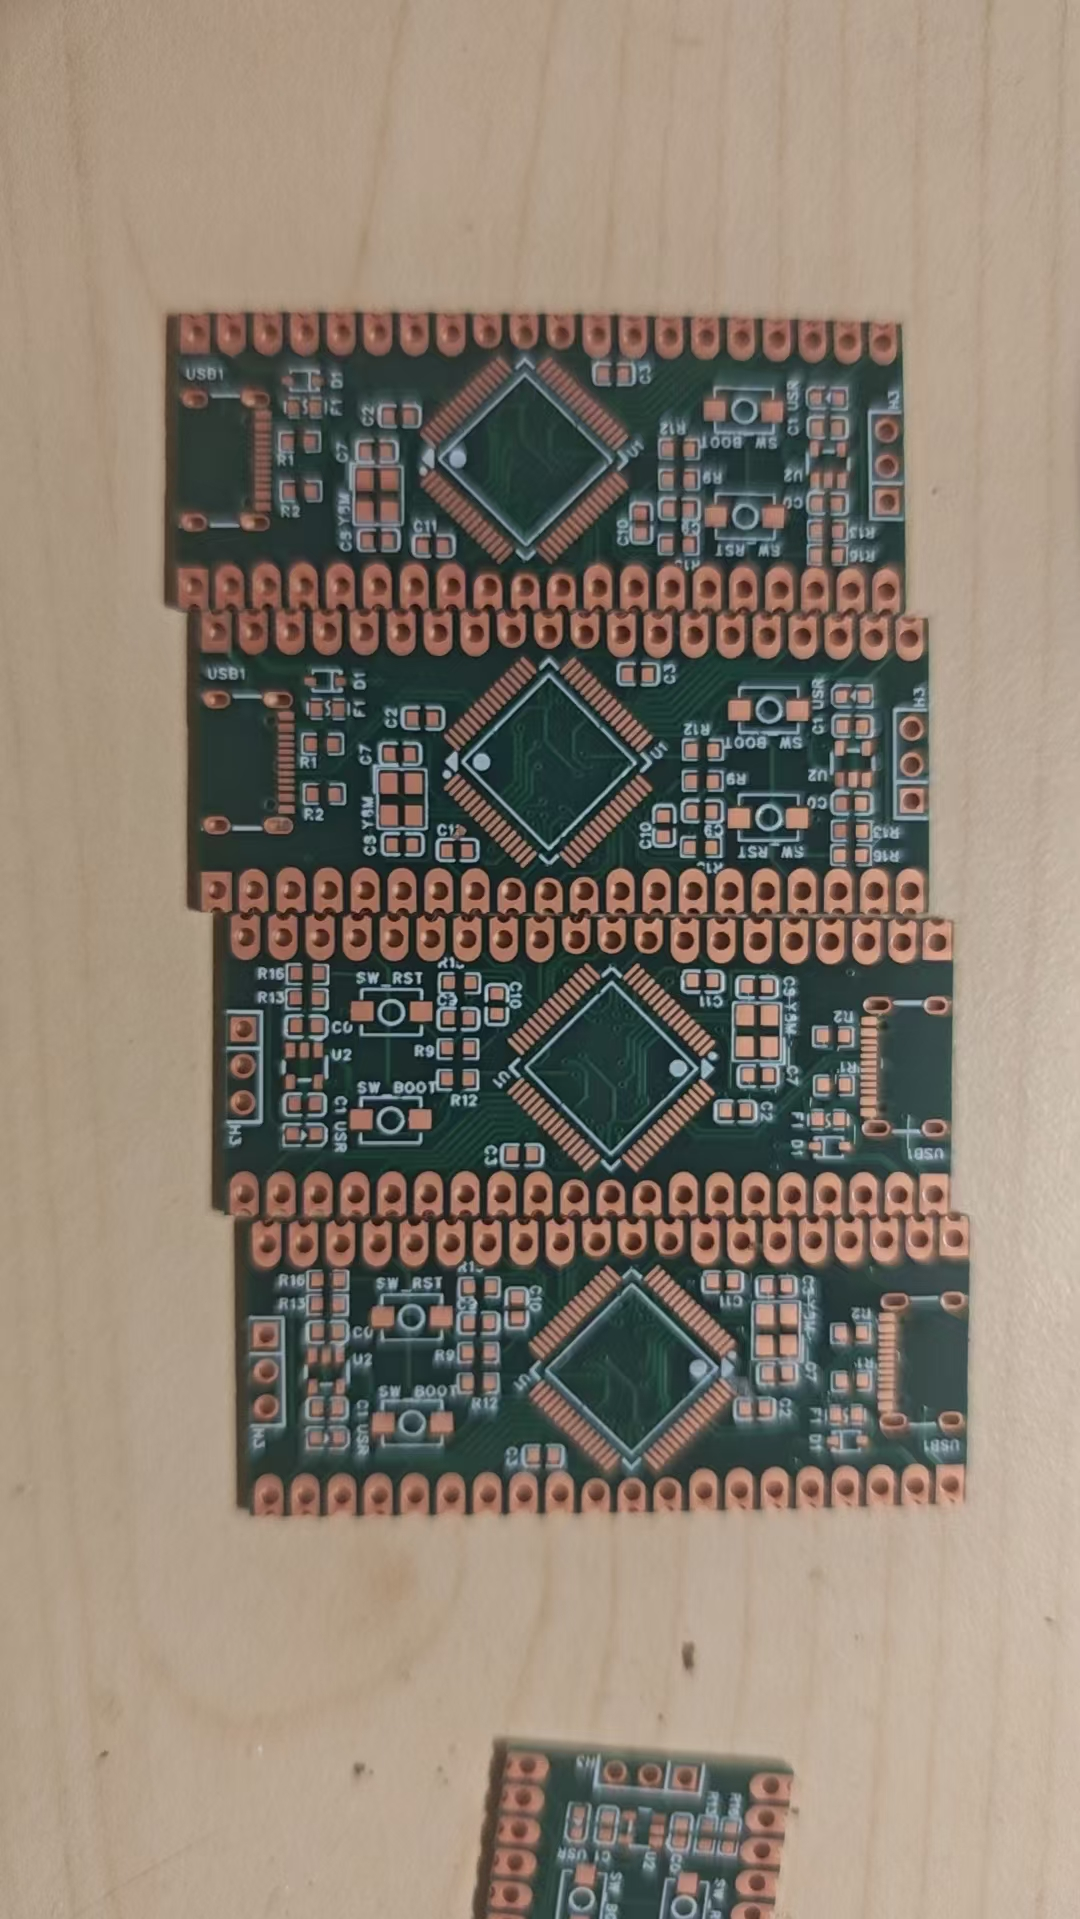
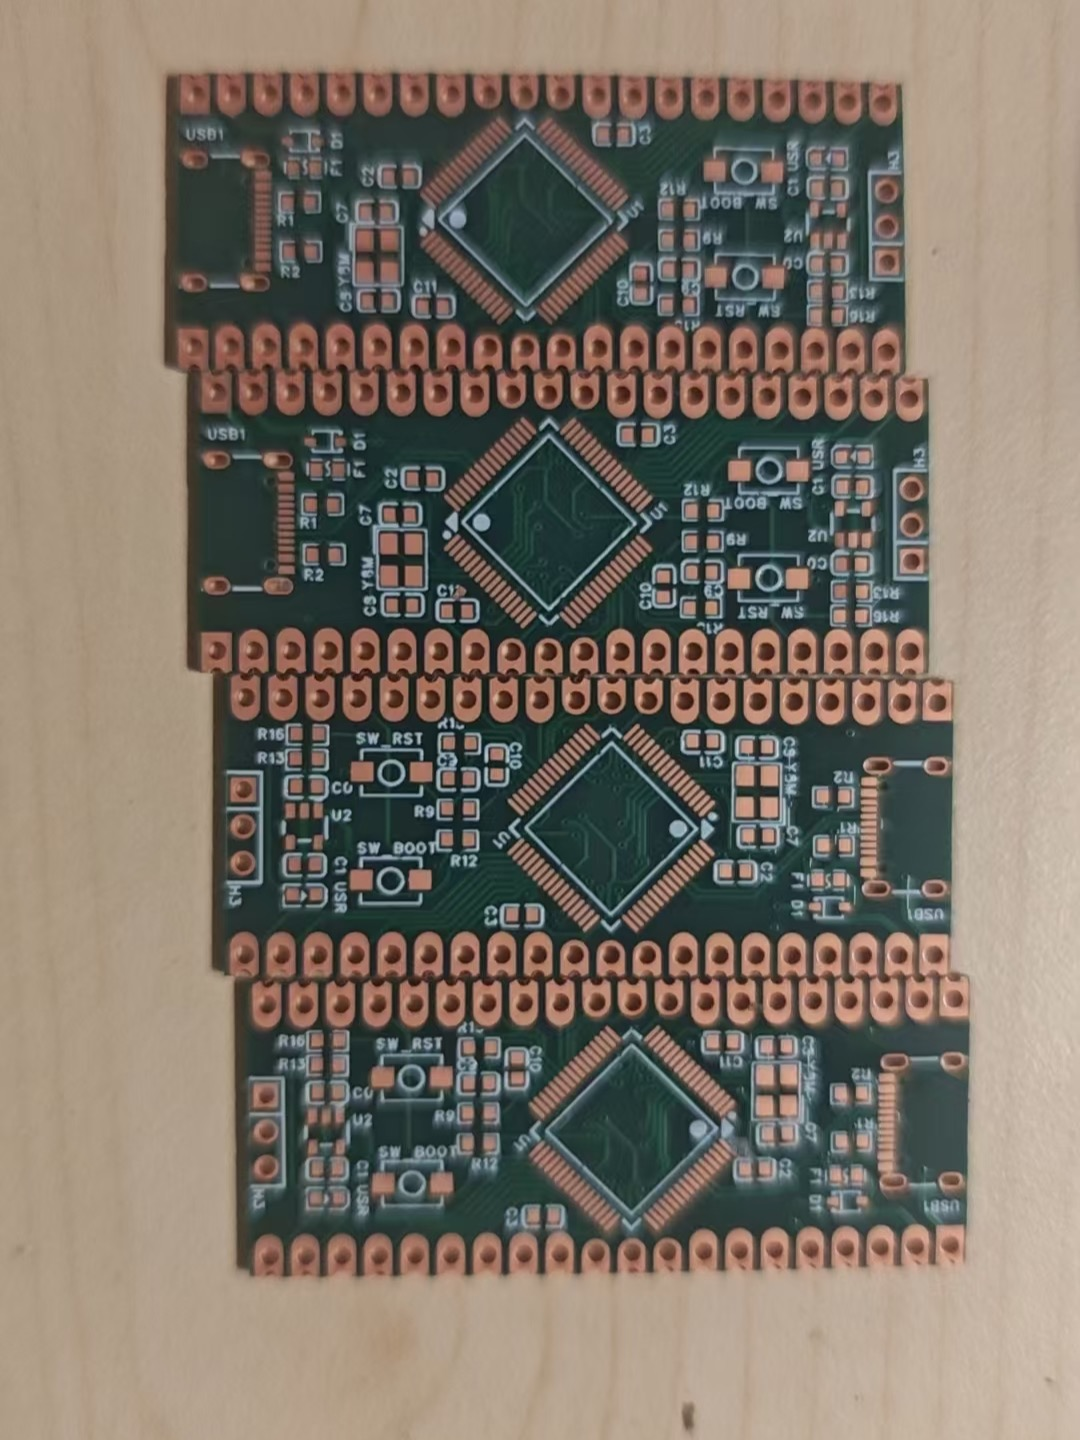
docs: refine project overview and hardware photos

diff --git a/README.md b/README.md
@@ -1,5 +1,11 @@
 # ch32v305-pico
-CH32V305RBT6 dev board with raspberry pi pico pin compatibility.
+
+A compact CH32V305RBT6 development board with Raspberry Pi Pico-compatible
+dimensions and castellated holes. It supports USB High Speed and provides ample
+GPIO and ADC resources, making it well suited to projects such as keyboards
+with an 8 kHz polling rate. All passive components are 0603 or larger for easy
+hand soldering. The repository also includes a proven CherryUSB port and
+ready-to-use demos.
 
 ## Hardware
 
